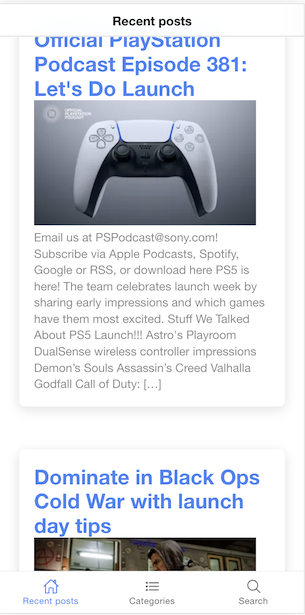
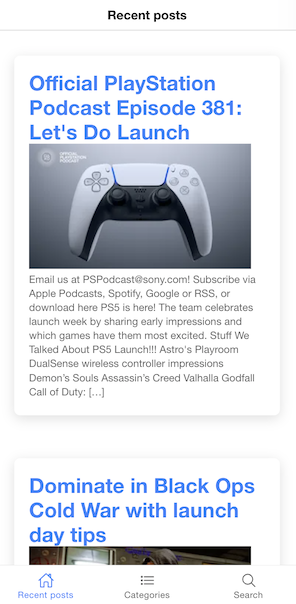
Fix current category name

diff --git a/src/components/Home/PostsContainer.tsx b/src/components/Home/PostsContainer.tsx
@@ -1,19 +1,31 @@
 import React, { useEffect, useState } from "react";
 import { useParams } from "react-router-dom";
 import { Posts } from "./Posts";
+import {
+  IonContent,
+  IonHeader,
+  IonPage,
+  IonTitle,
+  IonToolbar,
+} from "@ionic/react";
 
 export default function PostsContainer() {
   let { categoryid } = useParams<any>();
   const [posts, setPosts] = useState<any[]>([]);
   const [page, setPage] = useState<number>(1);
   const [totPages, setTotPages] = useState<number>(1);
+  const [categoryName, setCategoryName] = useState<string>("Recent posts");
+
   const baseUrl = "https://blog.playstation.com/wp-json/wp/v2";
-  
+
   useEffect(() => {
     async function loadPosts(page: number) {
-      const response = await fetch(
-        baseUrl + "/posts?page=" + page + "&categories=" + categoryid
-      );
+      var url = baseUrl + "/posts?page=" + page;
+      if (categoryid !== undefined) {
+        url = url + "&categories=" + categoryid;
+        getCategoryName(categoryid);
+      }
+      const response = await fetch(url);
       if (!response.ok) {
         // Not a 200 response! return...
         return;
@@ -37,11 +49,39 @@ export default function PostsContainer() {
     setPage(newPage);
   }
 
+  async function getCategoryName(id: number) {
+    var url = baseUrl + "/categories/" + id;
+    
+    const response = await fetch(url);
+    if (!response.ok) {
+      // Not a 200 response! return...
+      return;
+    }
+    // Get the info of the current category
+    const category = await response.json();
+    // Set current category name
+    setCategoryName(category.name);
+  }
+
   return (
-    <Posts
-      listOfPosts={posts}
-      totPages={totPages}
-      handleClickNextPage={handleClickNextPage}
-    />
+    <IonPage>
+      <IonHeader translucent={true} mode="ios">
+        <IonToolbar>
+          <IonTitle>{categoryName}</IonTitle>
+        </IonToolbar>
+      </IonHeader>
+      <IonContent>
+        <IonHeader collapse="condense">
+          <IonToolbar>
+            <IonTitle size="large">{categoryName}</IonTitle>
+          </IonToolbar>
+        </IonHeader>
+        <Posts
+          listOfPosts={posts}
+          totPages={totPages}
+          handleClickNextPage={handleClickNextPage}
+        />
+      </IonContent>
+    </IonPage>
   );
 }

diff --git a/src/pages/Home.tsx b/src/pages/Home.tsx
@@ -1,34 +1,10 @@
 import React from "react";
-import {
-  IonContent,
-  IonHeader,
-  IonPage,
-  IonTitle,
-  IonToolbar,
-} from "@ionic/react";
+
 import "./Home.css";
 import PostsContainer from "../components/Home/PostsContainer";
 
 const Home: React.FC = () => {
-  return (
-    <IonPage>
-      <IonHeader translucent={true} mode="ios">
-        <IonToolbar>
-          <IonTitle>Recent posts</IonTitle>
-        </IonToolbar>
-      </IonHeader>
-      <IonContent>
-        <IonHeader collapse="condense">
-          <IonToolbar>
-            <IonTitle size="large">Recent posts</IonTitle>
-          </IonToolbar>
-        </IonHeader>
-        <div className="container">
-          <PostsContainer />
-        </div>
-      </IonContent>
-    </IonPage>
-  );
+  return <PostsContainer />;
 };
 
 export default Home;

diff --git a/public/index.html b/public/index.html
@@ -2,7 +2,7 @@
 <html lang="en">
   <head>
     <meta charset="utf-8" />
-    <title>Ionic Wordpress App</title>
+    <title>Wordpress Ionic 6 React App</title>
 
     <base href="/" />
 
@@ -16,11 +16,11 @@
 
     <link rel="manifest" href="%PUBLIC_URL%/manifest.json" />
 
-    <link rel="shortcut icon" type="image/png" href="%PUBLIC_URL%/assets/icon/favicon.png" />
+    <link rel="shortcut icon" type="image/png" href="%PUBLIC_URL%/assets/icon/favicon-96x96.png" />
 
     <!-- add to homescreen for ios -->
     <meta name="apple-mobile-web-app-capable" content="yes" />
-    <meta name="apple-mobile-web-app-title" content="Ionic App" />
+    <meta name="apple-mobile-web-app-title" content="Wordpress Ionic 6 React App" />
     <meta name="apple-mobile-web-app-status-bar-style" content="black" />
   </head>
 

diff --git a/src/App.tsx b/src/App.tsx
@@ -39,10 +39,11 @@ const App: React.FC = () => (
     <IonReactRouter>
       <IonTabs>
         <IonRouterOutlet>
+          <Route path="/home/" component={Home} exact={true} />
           <Route path="/home/:categoryid" component={Home} exact={true} />
           <Route path="/categories" component={Categories} exact={true} />
           <Route path="/search" component={Search} />
-          <Route path="/" render={() => <Redirect to="/home/1" />} exact={true} />
+          <Route path="/" render={() => <Redirect to="/home" />} exact={true} />
         </IonRouterOutlet>
         <IonTabBar slot="bottom">
           <IonTabButton tab="home" href="/home">

diff --git a/README.md b/README.md
@@ -8,4 +8,4 @@ https://i5t7ui83wj.appflowapp.com/home
 
 Some screenshots :) 
 
-![home](home.png)
+![home](home.png) ![categories](categories.png)
